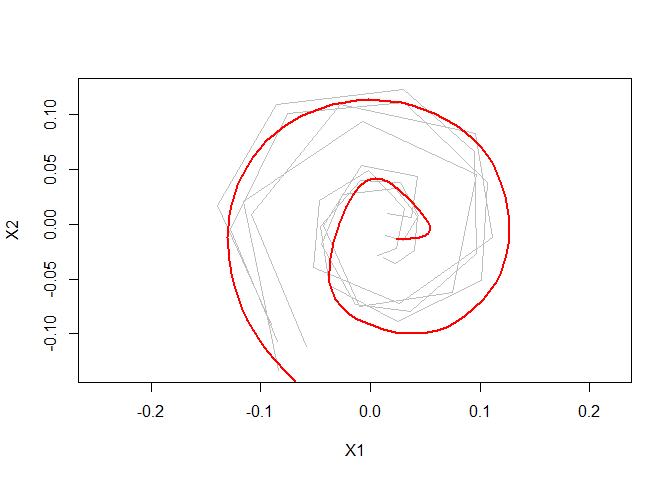
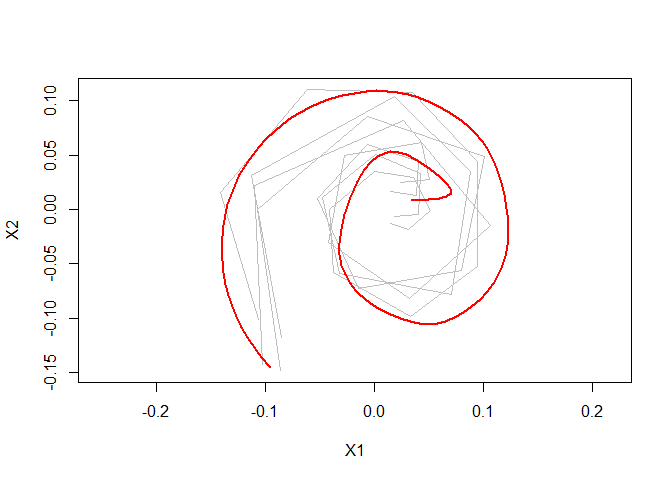
Add example code to README. Fix codecov badge.

diff --git a/README.md b/README.md
@@ -9,7 +9,8 @@
 coverage](https://codecov.io/gh/mpff/elasdicsproc2d/branch/main/graph/badge.svg)](https://app.codecov.io/gh/mpff/elasdicsproc2d?branch=main)
 <!-- badges: end -->
 
-The goal of elasdicsproc2d is to …
+The goal of elasdicsproc2d is to estimate elastic shape means from
+sparse and irregular observations.
 
 ## Installation
 
@@ -23,36 +24,65 @@ devtools::install_github("mpff/elasdicsproc2d")
 
 ## Example
 
-This is a basic example which shows you how to solve a common problem:
+Calculate a smooth shape mean for sparse spirals.
 
 ``` r
 library(elasdicsproc2d)
-## basic example code
+
+# define spiral curve
+curve <- function(t){
+  rbind(t*cos(13*t), t*sin(13*t))
+}
+
+# randomly draw sparse spirals with noise
+data_curves <- lapply(1:4, function(i){
+  m <- sample(10:15, 1)
+  delta <- abs(rnorm(m, mean = 1, sd = 0.05))
+  t <- cumsum(delta)/sum(delta)
+  data.frame(t(curve(t)) + 0.07*t*matrix(cumsum(rnorm(2*length(delta))),
+             ncol = 2))
+})
+
+# randomly rotate and scale curves
+rand_scale <- function(curve){ ( 0.5 + runif(1) ) * curve }
+rand_rotate <- function(curve){
+  names <- colnames(curve)
+  theta <- 2*pi*runif(1)
+  mat <- matrix(c(cos(theta), sin(theta), -sin(theta), cos(theta)), nrow = 2, ncol = 2)
+  curve.rot <- as.matrix(curve) %*% t(mat)
+  curve.rot <- as.data.frame(curve.rot)
+  colnames(curve.rot) <- names
+  return(curve.rot)
+}
+data_curves <- lapply(data_curves, rand_scale)
+data_curves <- lapply(data_curves, rand_rotate)
+
+# compute smooth procrustes mean with 2 order penalty
+knots <- seq(0,1, length = 11)
+elastic_proc2d_mean <- compute_elastic_proc2d_mean(
+  data_curves,
+  knots = knots,
+  type = "smooth",
+  penalty = 2
+)
+#> Warning in smooth.construct.ps.smooth.spec(eval(as.call(list(as.symbol("s"), :
+#> there is *no* information about some basis coefficients
+
+#> Warning in smooth.construct.ps.smooth.spec(eval(as.call(list(as.symbol("s"), :
+#> there is *no* information about some basis coefficients
+
+#> Warning in smooth.construct.ps.smooth.spec(eval(as.call(list(as.symbol("s"), :
+#> there is *no* information about some basis coefficients
+
+#> Warning in smooth.construct.ps.smooth.spec(eval(as.call(list(as.symbol("s"), :
+#> there is *no* information about some basis coefficients
+
+#> Warning in smooth.construct.ps.smooth.spec(eval(as.call(list(as.symbol("s"), :
+#> there is *no* information about some basis coefficients
+
+#> Warning in smooth.construct.ps.smooth.spec(eval(as.call(list(as.symbol("s"), :
+#> there is *no* information about some basis coefficients
+plot(elastic_proc2d_mean)
 ```
 
-What is special about using `README.Rmd` instead of just `README.md`?
-You can include R chunks like so:
-
-``` r
-summary(cars)
-#>      speed           dist       
-#>  Min.   : 4.0   Min.   :  2.00  
-#>  1st Qu.:12.0   1st Qu.: 26.00  
-#>  Median :15.0   Median : 36.00  
-#>  Mean   :15.4   Mean   : 42.98  
-#>  3rd Qu.:19.0   3rd Qu.: 56.00  
-#>  Max.   :25.0   Max.   :120.00
-```
-
-You’ll still need to render `README.Rmd` regularly, to keep `README.md`
-up-to-date. `devtools::build_readme()` is handy for this. You could also
-use GitHub Actions to re-render `README.Rmd` every time you push. An
-example workflow can be found here:
-<https://github.com/r-lib/actions/tree/v1/examples>.
-
-You can also embed plots, for example:
-
-<img src="man/figures/README-pressure-1.png" width="100%" />
-
-In that case, don’t forget to commit and push the resulting figure
-files, so they display on GitHub and CRAN.
+<img src="man/figures/README-example-1.png" width="100%" />
